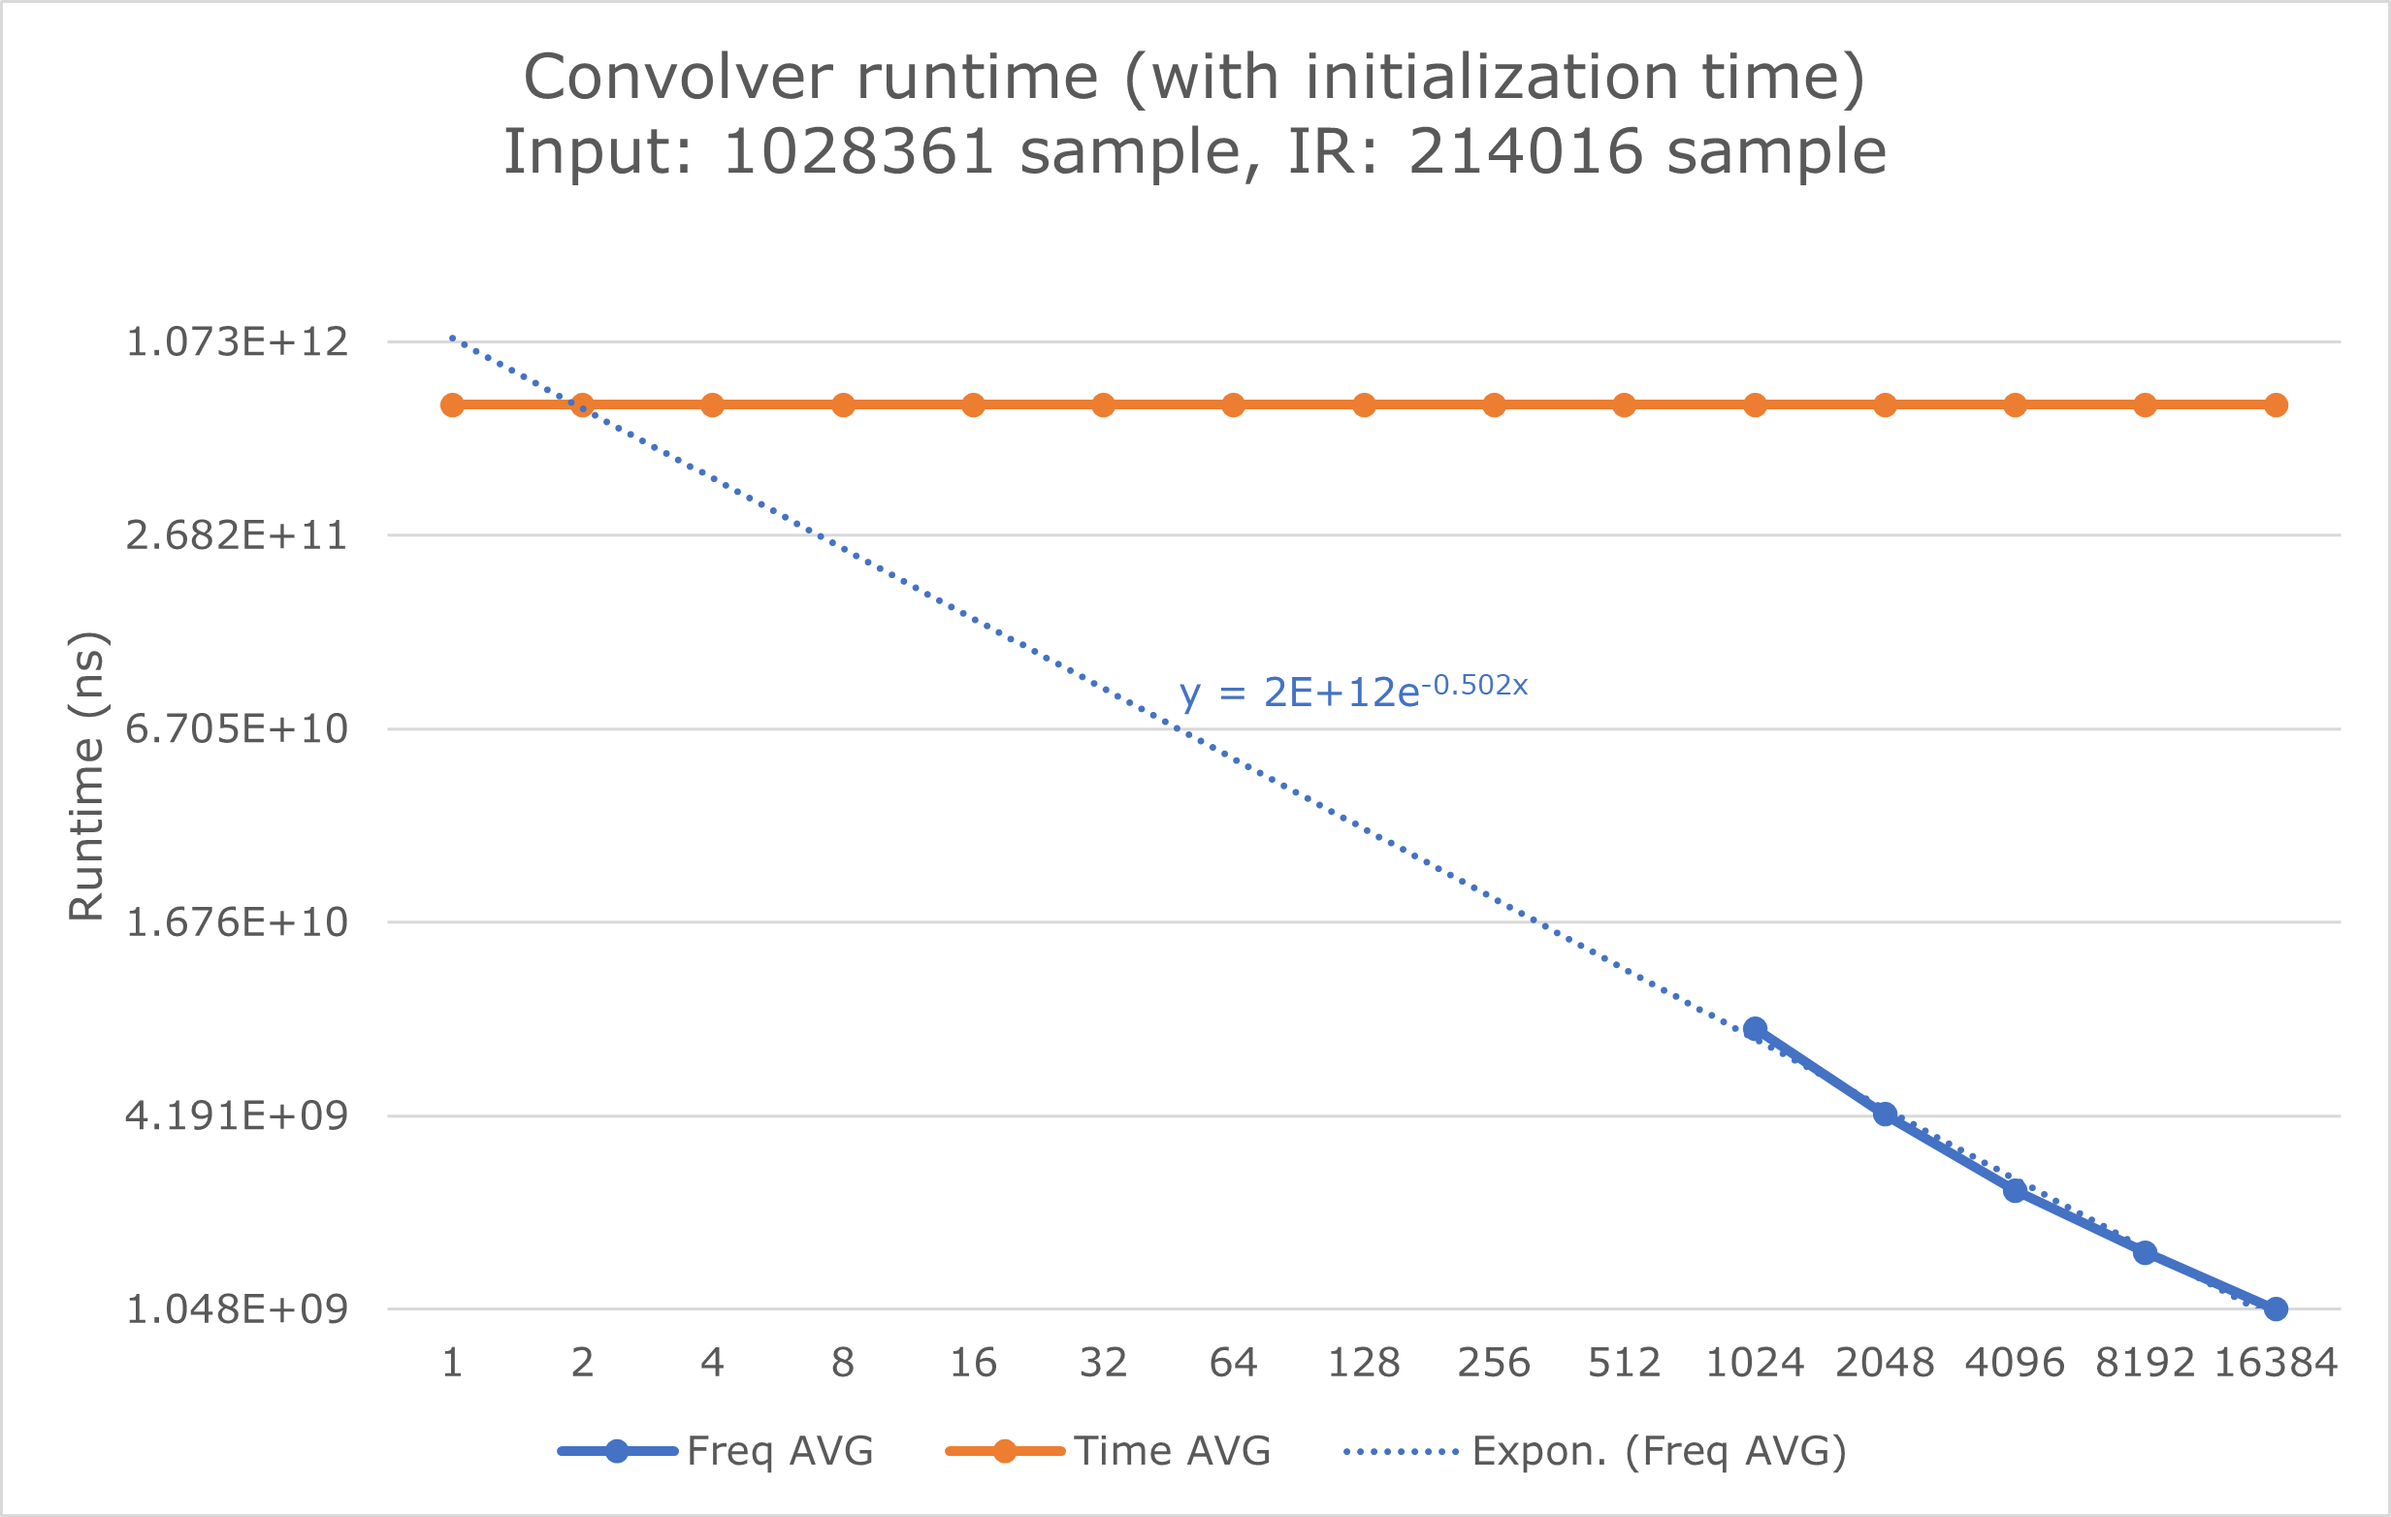
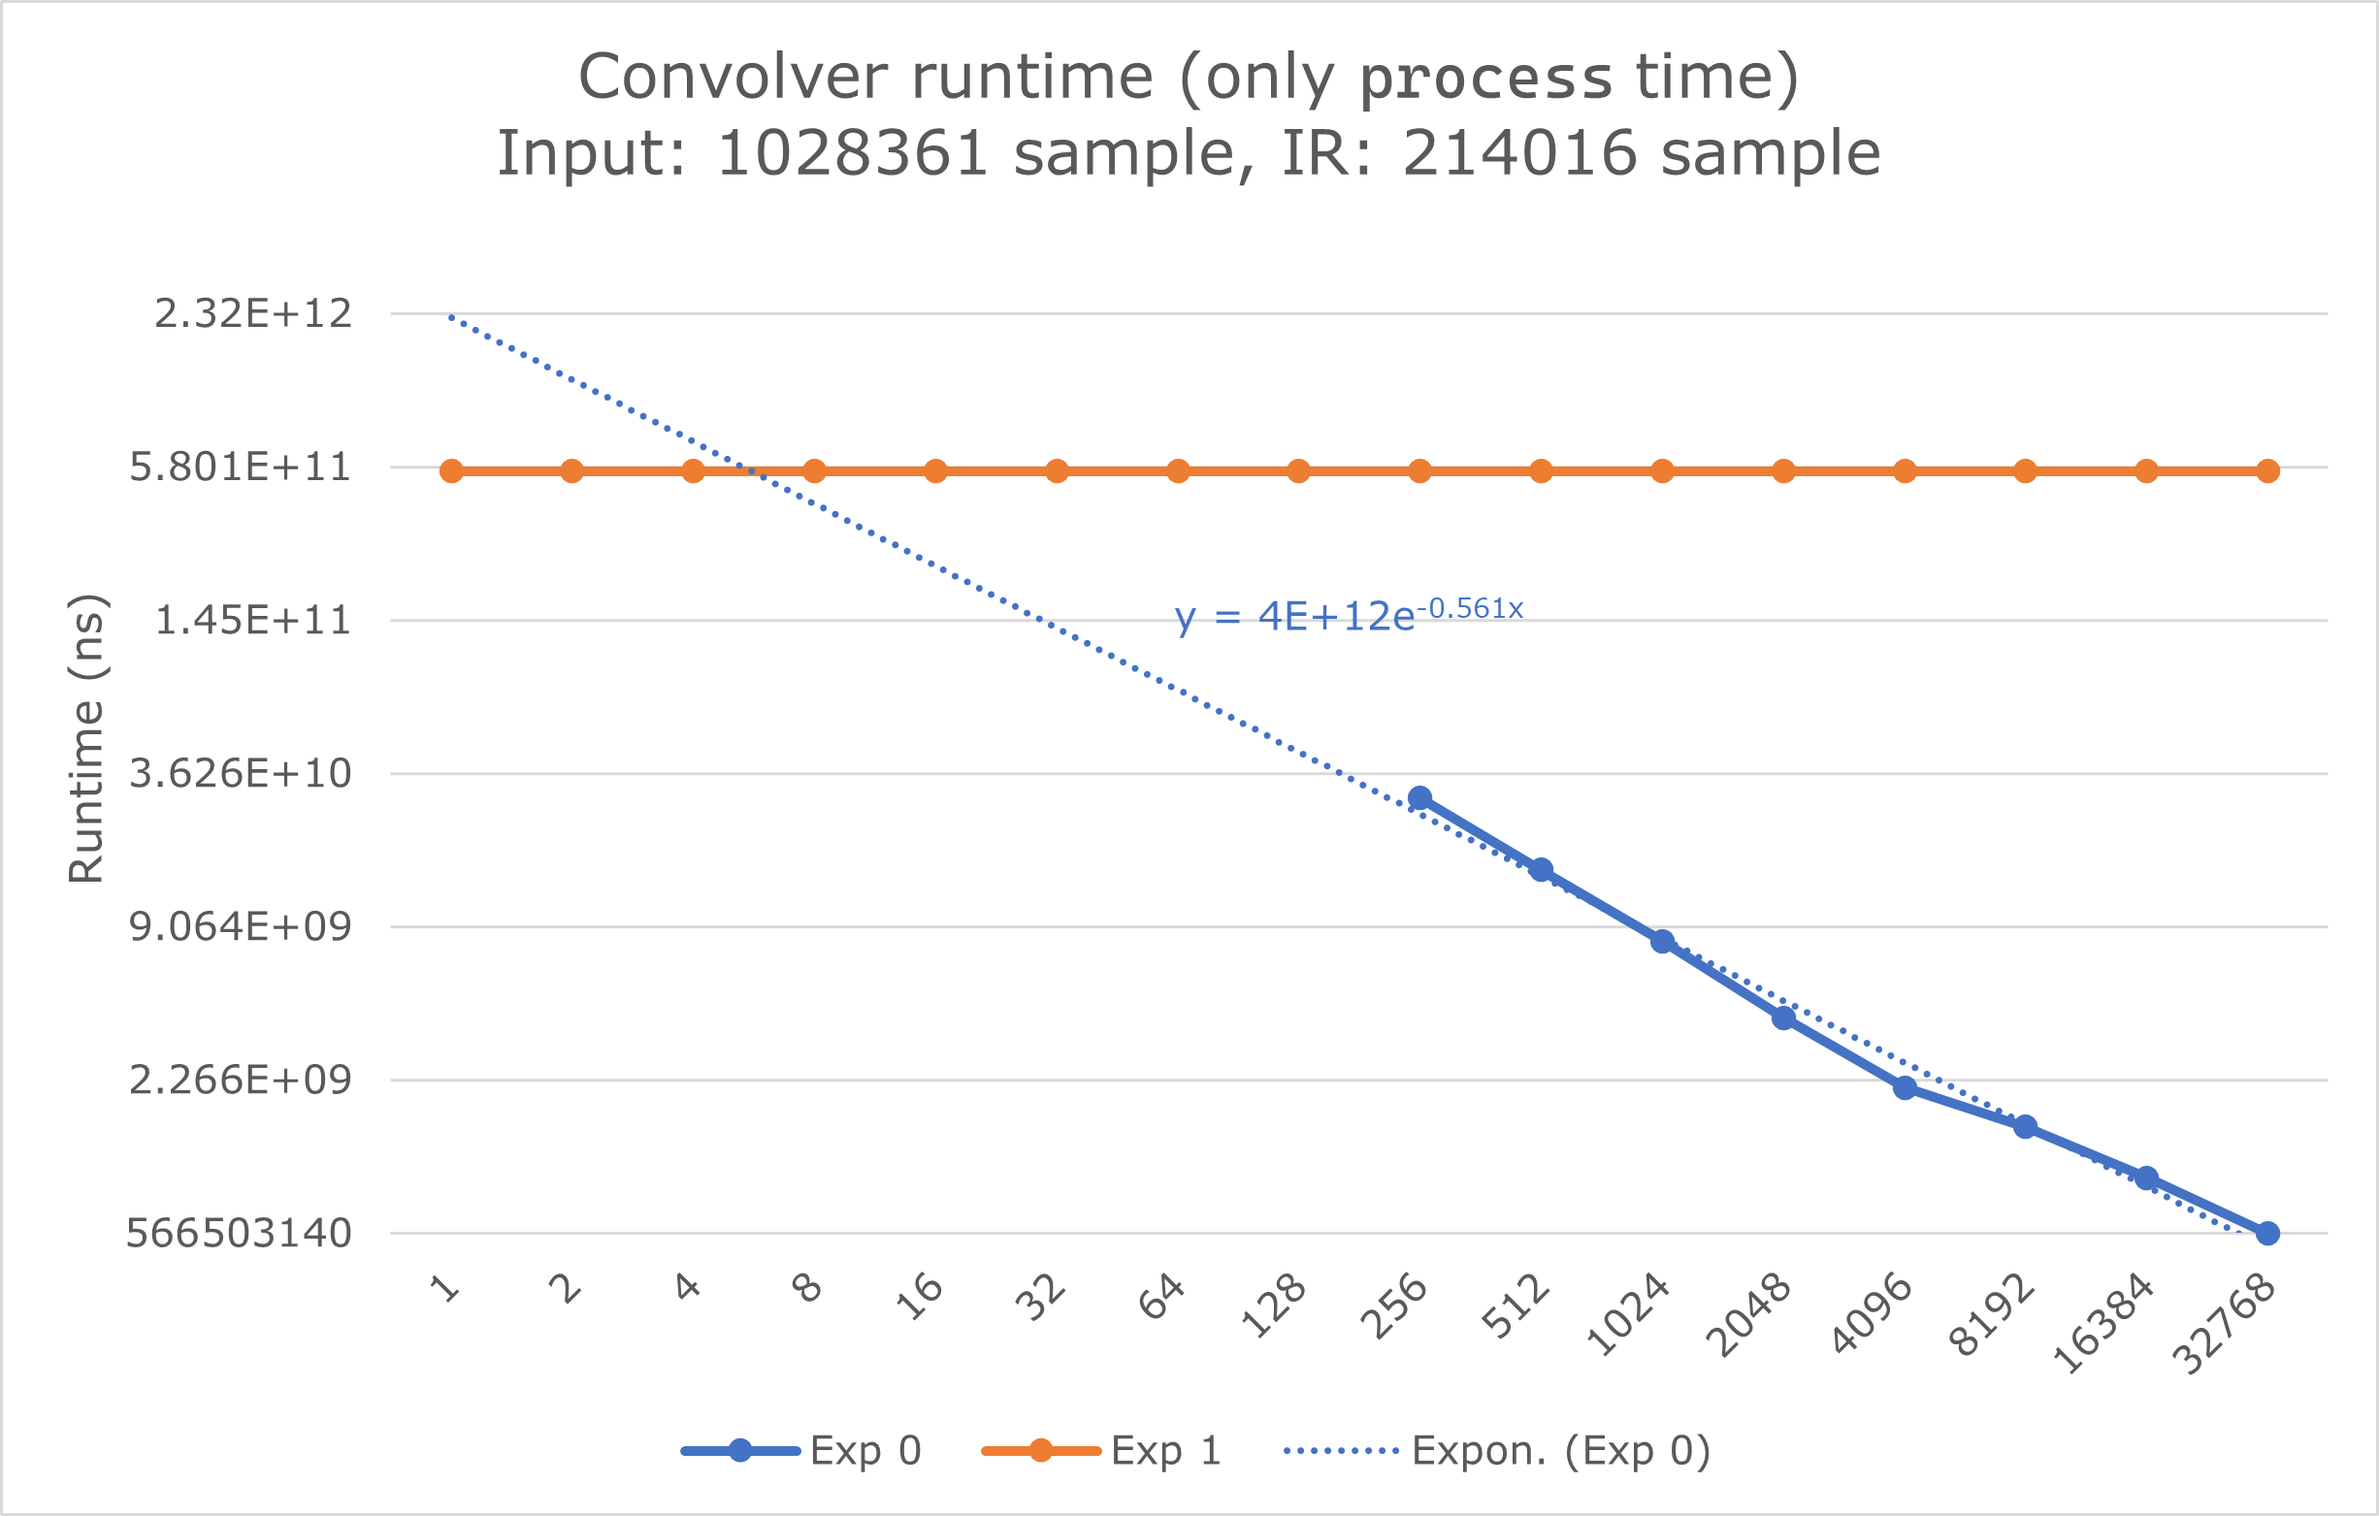
rerun experiment that only profiles `process` & update figures & analysis

diff --git a/runtime_comparison.md b/runtime_comparison.md
@@ -1,32 +1,37 @@
-## Runtime (with convolver initialization time included)
+## Runtime (`process` call only)
 
-We run 5 experiments for each convolver settings. We test time domain FIR convolver, frequency domain FFT convolver with block size 1024, 2048, 4096, 8192, and 16384. We use `std::chrono::steady_clock` to evaluate runtime more accurately than `ctime`. The runtime unit is nanosecond (1e-9s).
+We run 10 experiments for each convolver settings. We test time domain FIR convolver, frequency domain FFT convolver with block size 256, 512, 1024, 2048, 4096, 8192, 16384, and 32768. We use `std::chrono::steady_clock` to evaluate runtime more accurately than `ctime`. The runtime unit is nanosecond (1e-9s).
 
-We run all 30 experiments on the same input file (1028361 samples) and IR file (214016 samples).
+We run all 90 experiments on the same input file (1028361 samples) and IR file (214016 samples) on the same computer with no other system load.
 
 The experiment raw data is listed below:
 
-| BlockSize | Exp 0        | Exp 1        | Exp 2        | Exp 3        | Exp 4        | AVG          |
-| --------- | ------------ | ------------ | ------------ | ------------ | ------------ | ------------ |
-| Time      | 769723443200 | 685043909100 | 765210896800 | 583107237400 | 623592244100 | 685335546120 |
-| 1024      | 8096100400   | 7762510300   | 7874542900   | 7633531000   | 7898791200   | 7853095160   |
-| 2048      | 4179570200   | 4224821600   | 4201036400   | 4489978400   | 4129135900   | 4244908500   |
-| 4096      | 2603565700   | 2533137500   | 2222926800   | 2361352100   | 2574653500   | 2459127120   |
-| 8192      | 1632481400   | 1547309900   | 1658021800   | 1495480300   | 1553196800   | 1577298040   |
-| 16384     | 1124492200   | 1060606600   | 999837300    | 987183200    | 1066432400   | 1047710340   |
+| BlockSize | Exp 0        | Exp 1        | Exp 2        | Exp 3        | Exp 4        | Exp 5        | Exp 6        | Exp 7        | Exp 8        | Exp 9        | AVG         |
+| --------- | ------------ | ------------ | ------------ | ------------ | ------------ | ------------ | ------------ | ------------ | ------------ | ------------ | ----------- |
+| Time      | 534092818800 | 507392937400 | 604477801600 | 704698770800 | 676857390700 | 525647673400 | 578527688000 | 479702965400 | 495317900700 | 472913106100 | 557962905290 |
+| 256       | 26255107400  | 30781267300  | 32633326000  | 28449182000  | 27971667900  | 31935829400  | 28741947700  | 27076440300  | 28329957800  | 28183738000  | 29035846380 |
+| 512       | 13867580100  | 16921592200  | 15044385800  | 15427789100  | 13691386700  | 14185895100  | 18670749100  | 15373475500  | 13967057400  | 14501443000  | 15165135400 |
+| 1024      | 7673700800   | 7504299600   | 7398391300   | 7684410900   | 7437939100   | 7726721800   | 7759071000   | 7714008600   | 9872602700   | 8952319000   | 7972346480  |
+| 2048      | 4319090400   | 3948207400   | 4028238400   | 4029799200   | 4024757200   | 3960182300   | 3938185600   | 3877580700   | 3905494300   | 3851614200   | 3988314970  |
+| 4096      | 2209569200   | 2090650100   | 2121871200   | 2127310900   | 2033298700   | 2061201300   | 2123743400   | 2099357600   | 2091577600   | 2175055200   | 2113363520  |
+| 8192      | 1421631800   | 1556480600   | 1494852300   | 1446110700   | 1452868800   | 1443496600   | 1545761700   | 1526350200   | 1510624900   | 1439304700   | 1483748230  |
+| 16384     | 981889700    | 926660100    | 922656800    | 974655500    | 986397000    | 1003178500   | 921550800    | 881640000    | 918724000    | 858121700    | 937547410   |
+| 32768     | 558893600    | 563068700    | 538381400    | 542289200    | 564541000    | 584424500    | 538133400    | 579705200    | 646199500    | 549394900    | 566503140   |
 
 And the visualized figure for more intuitive comparison:
 
 ![fig](fig.png)
 
-Notice that the y-axis is $\log_2$ scale. Compared with time domain convolution, the fastest FFT convolver is ~654.1269x faster.
+Notice that the y-axis is $\log_2$ scale. Compared with time domain convolution, the fastest FFT convolver is ~984.9246x faster.
 
 ## Some observations
 
-Under $\log_2$ scale, runtime between FFT with exponentially increasing block appears to be exponentially decreasing. That is to say, doubling block size approximately halves the runtime.
+When FFT block size axis and runtime axis are both under $\log_2$ scale, the relationship between runtime and block size seems to be linear. That is to say, doubling block size approximately halves the runtime.
 
 If we perform linear regression on FFT part data, we have
 
 ![fig2](fig2.png)
 
-The exponential part ($e^{-0.502x}$) clearly supports the previous observation that doubling block size approximately halves (actually ~0.605) the runtime. If we run FFT with block size = 2, we should have approximately the same runtime with the time domain convolution.
+The exponential part ($e^{-0.56136x} \approx 0.57043^x$) clearly supports the previous observation that doubling block size approximately halves (actually approximately `*= 0.57043`) the runtime. This also shows the ratio of constant in time complexity. When FFT block size ~= $5.553613770329971$, the FFT convolver should have similar runtime performance with the time domain convolver.
+
+When FFT block size = 1, it will take ~2.2867x time of time domain convolver to finish convolution. This reflects FFT's large constant $c$ in $\mathcal{O}(c n \log n)$ compared to time domain convolver.
